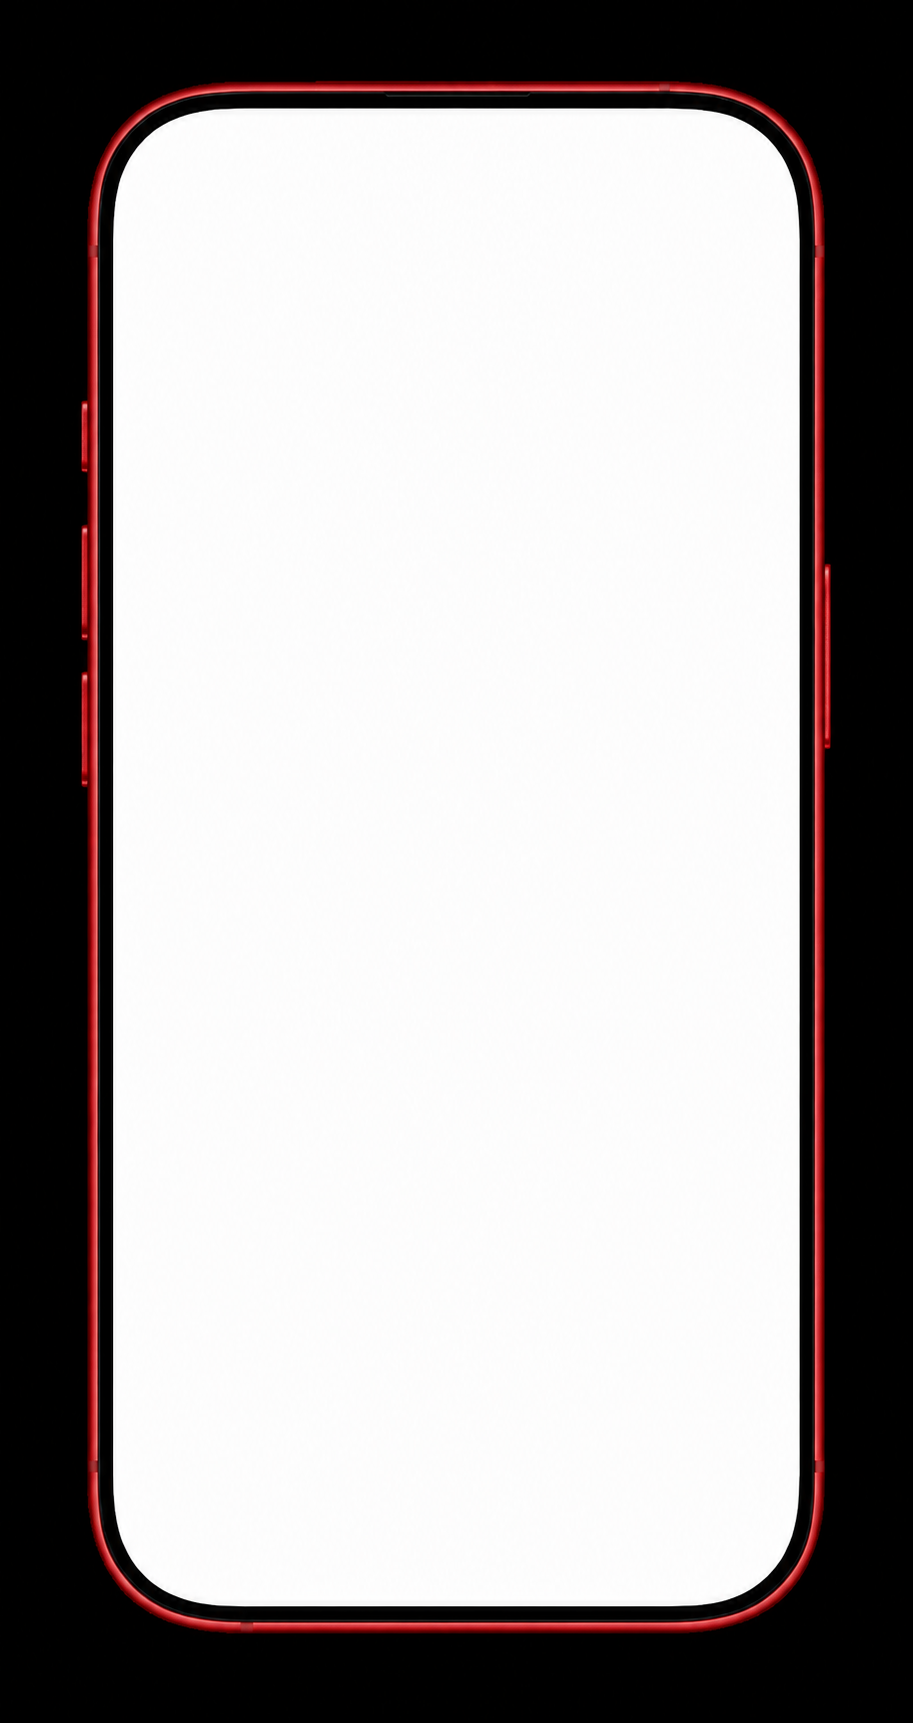
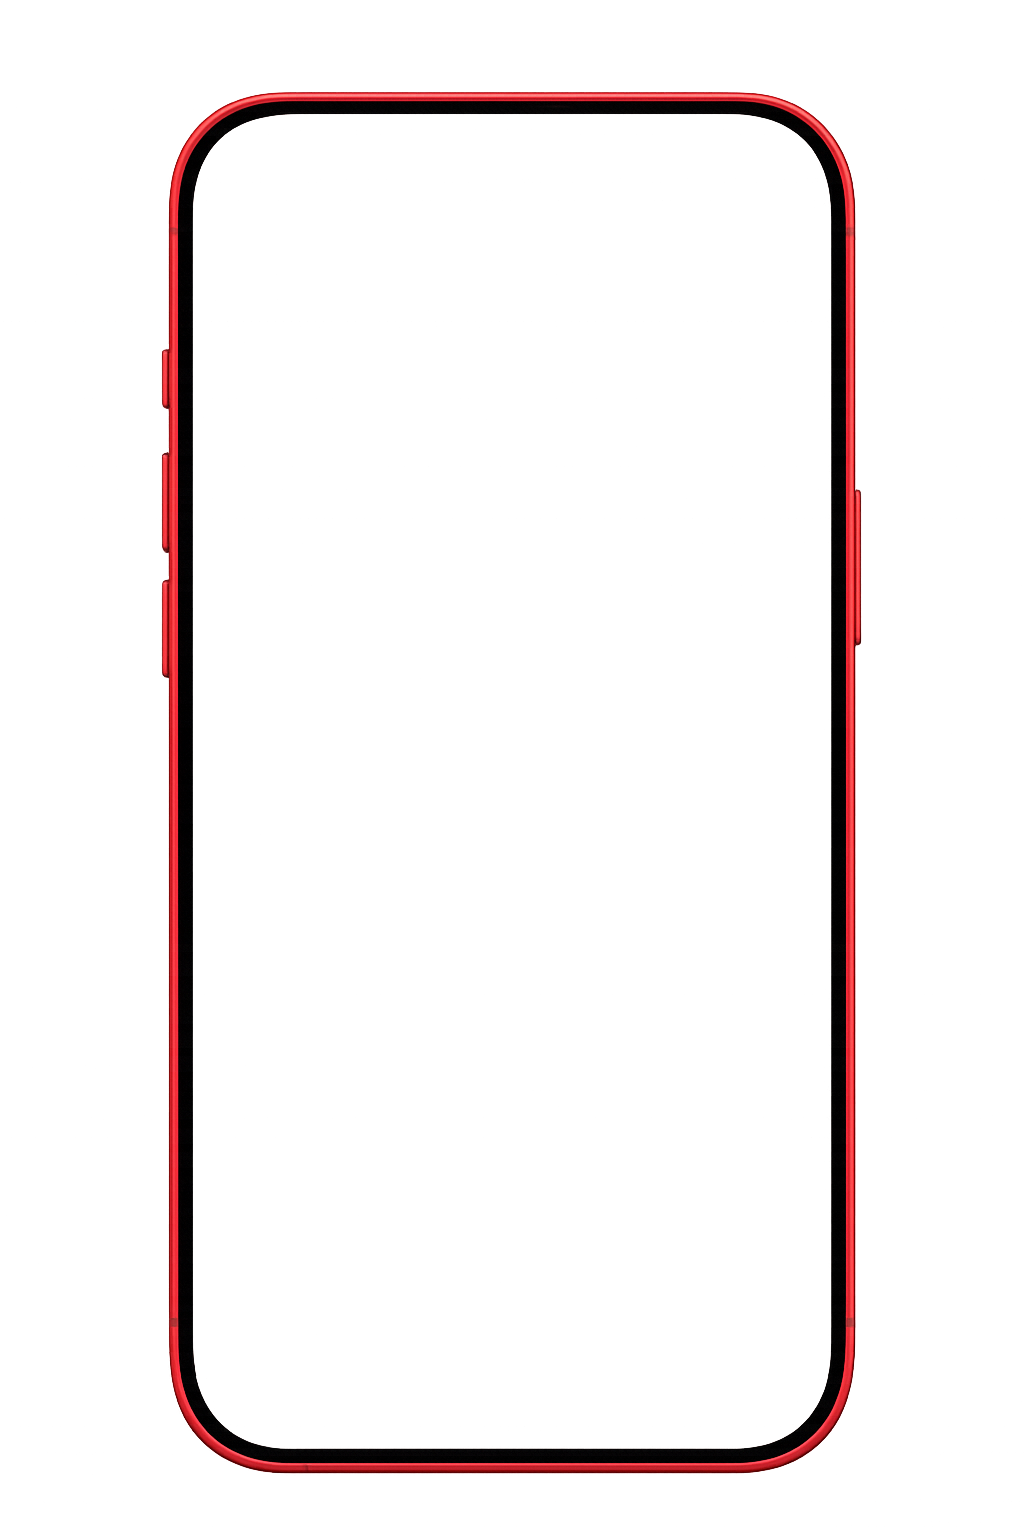
Polish overlay settings and screenshots

diff --git a/Tweak/UI/OverlayButtonHost.mm b/Tweak/UI/OverlayButtonHost.mm
@@ -17,8 +17,15 @@ static const void *YTKACEOverlayAlignmentAssociation = &YTKACEOverlayAlignmentAs
 static NSMutableArray<NSDictionary *> *YTKACEOverlayConfigurators;
 static BOOL YTKACENativeControlsVisible = YES;
 
-static UIView *YTKACEFindSettingsControl(UIView *view, UIView *host) {
-    if (view == host) return nil;
+static void YTKACEFindSettingsControlInView(UIView *view,
+                                            UIView *excluded,
+                                            UIView *coordinateView,
+                                            UIView **best,
+                                            CGFloat *bestScore) {
+    if (view == excluded || [view isDescendantOfView:excluded] ||
+        view.hidden || view.alpha < 0.05) {
+        return;
+    }
     NSString *hint = [[NSString stringWithFormat:@"%@ %@ %@",
         view.accessibilityIdentifier ?: @"", view.accessibilityLabel ?: @"",
         NSStringFromClass(view.class)] lowercaseString];
@@ -26,13 +33,37 @@ static UIView *YTKACEFindSettingsControl(UIView *view, UIView *host) {
          [view isKindOfClass:UIImageView.class]) &&
         ([hint containsString:@"settings"] || [hint containsString:@"gear"]) &&
         !CGRectIsEmpty(view.bounds)) {
-        return view;
+        CGRect frame = [view convertRect:view.bounds toView:coordinateView];
+        CGFloat width = CGRectGetWidth(coordinateView.bounds);
+        CGFloat height = CGRectGetHeight(coordinateView.bounds);
+        CGFloat centerX = CGRectGetMidX(frame);
+        CGFloat centerY = CGRectGetMidY(frame);
+        if (isfinite(centerX) && isfinite(centerY) &&
+            centerX > width * 0.55 && centerY < height * 0.35 &&
+            CGRectIntersectsRect(frame, coordinateView.bounds)) {
+            CGFloat score = centerX - centerY * 0.2;
+            if (*best == nil || score > *bestScore) {
+                *best = view;
+                *bestScore = score;
+            }
+        }
     }
     for (UIView *subview in view.subviews) {
-        UIView *match = YTKACEFindSettingsControl(subview, host);
-        if (match != nil) return match;
+        YTKACEFindSettingsControlInView(subview, excluded, coordinateView,
+                                        best, bestScore);
     }
-    return nil;
+}
+
+static UIView *YTKACEFindSettingsControl(UIView *overlay, UIView *excluded) {
+    UIView *best = nil;
+    CGFloat bestScore = -CGFLOAT_MAX;
+    YTKACEFindSettingsControlInView(overlay, excluded, overlay,
+                                    &best, &bestScore);
+    if (best == nil && overlay.window != nil) {
+        YTKACEFindSettingsControlInView(overlay.window, excluded, overlay,
+                                        &best, &bestScore);
+    }
+    return best;
 }
 
 static NSMutableDictionary *YTKACEAlignmentState(UIView *overlay) {
@@ -59,24 +90,28 @@ static BOOL YTKACEAlignOverlayStack(UIView *overlay, UIStackView *stack) {
         [state removeAllObjects];
         state[@"size"] = [NSValue valueWithCGSize:size];
     }
-    if ([state[@"ready"] boolValue]) return YES;
-
     UIWindow *window = overlay.window;
     CGSize windowSize = window != nil ? window.bounds.size : CGSizeZero;
     BOOL fillsLandscapeWindow = windowSize.width > windowSize.height &&
         CGRectGetWidth(overlay.bounds) >= windowSize.width * 0.94;
     CGFloat constant = fillsLandscapeWindow ? -20.0 : -8.0;
+    NSNumber *previous = state[@"constant"];
+    BOOL hasGearAlignment = [state[@"hasGearAlignment"] boolValue];
     UIView *gear = YTKACEFindSettingsControl(overlay, stack);
     if (gear != nil) {
         CGRect frame = [gear.superview convertRect:gear.frame toView:overlay];
         CGFloat safeTrailing = CGRectGetMaxX(overlay.safeAreaLayoutGuide.layoutFrame);
         CGFloat center = CGRectGetMidX(frame);
         if (isfinite(center) && center > 0.0 && safeTrailing > 0.0) {
-            constant = MIN(4.0, MAX(-44.0, center + 20.0 - safeTrailing));
+            constant = MIN(20.0, MAX(-160.0,
+                center + 20.0 - safeTrailing));
+            hasGearAlignment = YES;
+            state[@"hasGearAlignment"] = @YES;
         }
+    } else if (hasGearAlignment && previous != nil) {
+        constant = previous.doubleValue;
     }
 
-    NSNumber *previous = state[@"constant"];
     NSUInteger stable = [state[@"stable"] unsignedIntegerValue];
     if (previous != nil && fabs(previous.doubleValue - constant) < 0.5) {
         stable += 1;
@@ -85,9 +120,11 @@ static BOOL YTKACEAlignOverlayStack(UIView *overlay, UIStackView *stack) {
     }
     state[@"constant"] = @(constant);
     state[@"stable"] = @(stable);
-    trailing.constant = constant;
+    [UIView performWithoutAnimation:^{
+        trailing.constant = constant;
+    }];
 
-    BOOL ready = gear == nil || stable >= 2;
+    BOOL ready = hasGearAlignment || stable >= 2;
     state[@"ready"] = @(ready);
     if (!ready) {
         dispatch_async(dispatch_get_main_queue(), ^{

diff --git a/Tools/frame_screenshots.py b/Tools/frame_screenshots.py
@@ -1,63 +1,64 @@
 from pathlib import Path
 
-from PIL import Image, ImageChops, ImageDraw
+from PIL import Image, ImageDraw
 
 
 ROOT = Path(__file__).resolve().parents[1]
-SOURCE = ROOT / "screenshots"
-OUTPUT = SOURCE / "framed"
-BEZEL = SOURCE / "iphone-bezel.png"
+SOURCE = ROOT / "screenshots" / "source"
+OUTPUT = ROOT / "screenshots" / "framed"
+FRAME = ROOT / "screenshots" / "phone-template-product-red.png"
 NAMES = (
-    "settings.png",
-    "shorts-download-menu.png",
-    "video-download-menu.png",
-    "tab-editor.png",
-    "shorts-library.png",
-    "shorts-player.png",
-    "download-progress.png",
-    "audio-library.png",
-    "audio-player.png",
-    "audio-queue.png",
+    "settings",
+    "player-settings",
+    "sponsorblock-settings",
+    "tab-editor",
+    "video-download-menu",
+    "shorts-download-menu",
+    "download-library",
+    "download-progress",
+    "video-player",
+    "audio-player",
+    "audio-queue",
 )
 
 
-def make_overlay(bezel):
-    overlay = bezel.copy()
-    red, green, blue, alpha = bezel.split()
-    white = ImageChops.darker(ImageChops.darker(red, green), blue)
-    white = white.point(lambda value: 255 if value >= 250 else 0)
-
-    interior = Image.new("L", bezel.size, 0)
-    ImageDraw.Draw(interior).rectangle((175, 165, 1425, 2835), fill=255)
-    opening = ImageChops.multiply(white, interior)
-    overlay.putalpha(ImageChops.subtract(alpha, opening))
-    return overlay, opening
-
-
-def cover(image, size):
-    scale = max(size[0] / image.width, size[1] / image.height)
+def contain(image, size):
+    scale = min(size[0] / image.width, size[1] / image.height)
     resized = image.resize(
         (round(image.width * scale), round(image.height * scale)),
         Image.Resampling.LANCZOS,
     )
-    left = (resized.width - size[0]) // 2
-    top = (resized.height - size[1]) // 2
-    return resized.crop((left, top, left + size[0], top + size[1]))
+    canvas = Image.new("RGBA", size, (0, 0, 0, 255))
+    left = (size[0] - resized.width) // 2
+    top = (size[1] - resized.height) // 2
+    canvas.alpha_composite(resized, (left, top))
+    return canvas
 
 
-def frame(path, overlay, opening):
-    display = opening.getbbox()
-    screen_size = (display[2] - display[0], display[3] - display[1])
-    screen = cover(Image.open(path).convert("RGBA"), screen_size)
-    canvas = Image.new("RGBA", overlay.size, (0, 0, 0, 0))
-    canvas.paste(screen, display[:2], opening.crop(display))
-    canvas.alpha_composite(overlay)
+def source_path(name):
+    for suffix in (".png", ".jpg", ".jpeg"):
+        path = SOURCE / f"{name}{suffix}"
+        if path.exists():
+            return path
+    raise FileNotFoundError(name)
+
+
+def frame(path, phone):
+    display = (191, 109, 833, 1454)
+    size = (display[2] - display[0], display[3] - display[1])
+    screen = contain(Image.open(path).convert("RGBA"), size)
+    mask = Image.new("L", phone.size, 0)
+    ImageDraw.Draw(mask).rounded_rectangle(display, radius=76, fill=255)
+
+    canvas = Image.new("RGBA", phone.size, (0, 0, 0, 0))
+    canvas.paste(screen, display[:2], mask.crop(display))
+    canvas.alpha_composite(phone)
+
     OUTPUT.mkdir(parents=True, exist_ok=True)
-    result = canvas.resize((800, 1500), Image.Resampling.LANCZOS)
-    result.save(OUTPUT / path.name, optimize=True)
+    result = canvas.resize((800, 1200), Image.Resampling.LANCZOS)
+    result.save(OUTPUT / f"{path.stem}.png", optimize=True)
 
 
-bezel_image = Image.open(BEZEL).convert("RGBA")
-bezel_overlay, display_mask = make_overlay(bezel_image)
+phone_image = Image.open(FRAME).convert("RGBA")
 for name in NAMES:
-    frame(SOURCE / name, bezel_overlay, display_mask)
+    frame(source_path(name), phone_image)

diff --git a/Tweak/Features/Shorts/ShortsHooks.mm b/Tweak/Features/Shorts/ShortsHooks.mm
@@ -241,8 +241,8 @@ static void YTKACEPositionShortsDownload(UIView *host,
         }
         if (constraints == nil) {
             constraints = @[
-                [download.widthAnchor constraintEqualToConstant:40.0],
-                [download.heightAnchor constraintEqualToConstant:40.0],
+                [download.widthAnchor constraintEqualToConstant:36.0],
+                [download.heightAnchor constraintEqualToConstant:36.0],
                 [download.trailingAnchor constraintEqualToAnchor:
                     host.safeAreaLayoutGuide.trailingAnchor constant:-12.0],
                 [download.topAnchor constraintEqualToAnchor:
@@ -264,16 +264,16 @@ static void YTKACEPositionShortsDownload(UIView *host,
     CGFloat centerX = CGRectGetWidth(host.bounds) - 32.0;
     CGFloat top = host.safeAreaInsets.top + 65.0;
     if (action == nil && !CGRectIsEmpty(download.frame) &&
-        CGRectGetWidth(download.frame) >= 39.0) {
+        CGRectGetWidth(download.frame) >= 35.0) {
         return;
     }
     if (action != nil) {
         CGRect frame = [action convertRect:action.bounds toView:host];
         centerX = CGRectGetMidX(frame);
-        top = CGRectGetMinY(frame) - 52.0;
+        top = CGRectGetMinY(frame) - 48.0;
     }
     top = MAX(host.safeAreaInsets.top + 52.0, top);
-    download.frame = CGRectMake(round(centerX - 20.0), round(top), 40.0, 40.0);
+    download.frame = CGRectMake(round(centerX - 18.0), round(top), 36.0, 36.0);
     download.autoresizingMask =
         UIViewAutoresizingFlexibleLeftMargin | UIViewAutoresizingFlexibleTopMargin;
 }
@@ -551,6 +551,11 @@ static void YTKACEConfigureReelView(UIView *receiver, BOOL showDownload) {
         download.tintColor = UIColor.whiteColor;
         [download setImage:YTKACEDownloadGlyphImage()
                   forState:UIControlStateNormal];
+        UIImageSymbolConfiguration *configuration =
+            [UIImageSymbolConfiguration configurationWithPointSize:20.0
+                                                            weight:UIImageSymbolWeightMedium];
+        [download setPreferredSymbolConfiguration:configuration
+                                  forImageInState:UIControlStateNormal];
         download.layer.shadowColor = UIColor.blackColor.CGColor;
         download.layer.shadowOpacity = 0.55;
         download.layer.shadowRadius = 4.0;

diff --git a/Tweak/Settings/YTKACESettingsPages.mm b/Tweak/Settings/YTKACESettingsPages.mm
@@ -183,7 +183,7 @@ static UIColor *YTKACESettingsBackground(void) {
 
 static UIColor *YTKACESettingsCellBackground(void) {
     return [UIColor colorWithDynamicProvider:^UIColor *(UITraitCollection *traits) {
-        return YTKACEInterfaceSurfaceColor(traits);
+        return YTKACEInterfaceBackgroundColor(traits);
     }];
 }
 
@@ -553,6 +553,9 @@ willDisplayHeaderView:(UIView *)view
         cell = [[UITableViewCell alloc] initWithStyle:style reuseIdentifier:identifier];
     }
 
+    [[cell.contentView viewWithTag:8801] removeFromSuperview];
+    [[cell.contentView viewWithTag:8802] removeFromSuperview];
+
     cell.textLabel.text = item[@"title"];
     cell.detailTextLabel.text = item[@"subtitle"];
     cell.textLabel.font = [UIFont systemFontOfSize:17.0];
@@ -597,11 +600,6 @@ willDisplayHeaderView:(UIView *)view
                     action:@selector(segmentChanged:)
           forControlEvents:UIControlEventValueChanged];
         if ([item[@"stacked"] boolValue]) {
-            for (UIView *existing in cell.contentView.subviews) {
-                if (existing.tag == 8801 || existing.tag == 8802) {
-                    [existing removeFromSuperview];
-                }
-            }
             UILabel *caption = [UILabel new];
             caption.tag = 8802;
             caption.text = item[@"title"];

diff --git a/Tweak/Settings/YTKACERootOptionsController.mm b/Tweak/Settings/YTKACERootOptionsController.mm
@@ -20,7 +20,7 @@ static UIColor *YTKACERootBackground(void) {
 
 static UIColor *YTKACERootCellBackground(void) {
     return [UIColor colorWithDynamicProvider:^UIColor *(UITraitCollection *traits) {
-        return YTKACEInterfaceSurfaceColor(traits);
+        return YTKACEInterfaceBackgroundColor(traits);
     }];
 }
 

diff --git a/README.md b/README.md
@@ -30,6 +30,31 @@ Fork the repository, enable Actions, open the **IPA** workflow and provide a dir
 
 Open the YTKACE tab and tap the gear, or open YouTube Settings and choose YTKACE.
 
+## Screenshots
+
+<table>
+  <tr>
+    <td align="center"><img src="screenshots/framed/settings.png" width="240"><br><b>Settings</b></td>
+    <td align="center"><img src="screenshots/framed/player-settings.png" width="240"><br><b>Player</b></td>
+    <td align="center"><img src="screenshots/framed/sponsorblock-settings.png" width="240"><br><b>SponsorBlock</b></td>
+  </tr>
+  <tr>
+    <td align="center"><img src="screenshots/framed/tab-editor.png" width="240"><br><b>Tab Editor</b></td>
+    <td align="center"><img src="screenshots/framed/video-download-menu.png" width="240"><br><b>Video Downloads</b></td>
+    <td align="center"><img src="screenshots/framed/shorts-download-menu.png" width="240"><br><b>Shorts Downloads</b></td>
+  </tr>
+  <tr>
+    <td align="center"><img src="screenshots/framed/download-library.png" width="240"><br><b>Library</b></td>
+    <td align="center"><img src="screenshots/framed/download-progress.png" width="240"><br><b>Download Progress</b></td>
+    <td align="center"><img src="screenshots/framed/video-player.png" width="240"><br><b>Video Player</b></td>
+  </tr>
+  <tr>
+    <td align="center"><img src="screenshots/framed/audio-player.png" width="240"><br><b>Audio Player</b></td>
+    <td align="center"><img src="screenshots/framed/audio-queue.png" width="240"><br><b>Audio Queue</b></td>
+    <td></td>
+  </tr>
+</table>
+
 ## Privacy
 
 YTKACE has no activation service, analytics, telemetry or updater.
